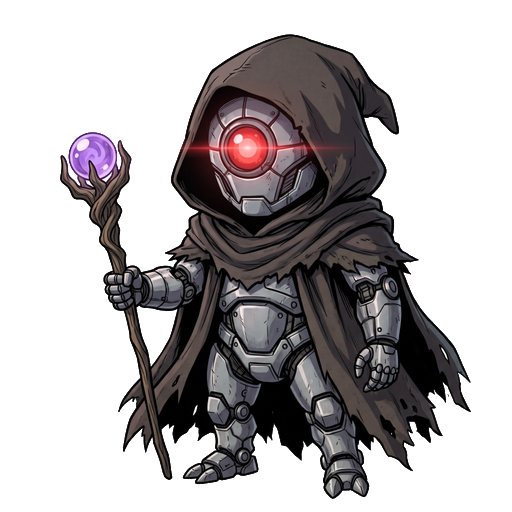
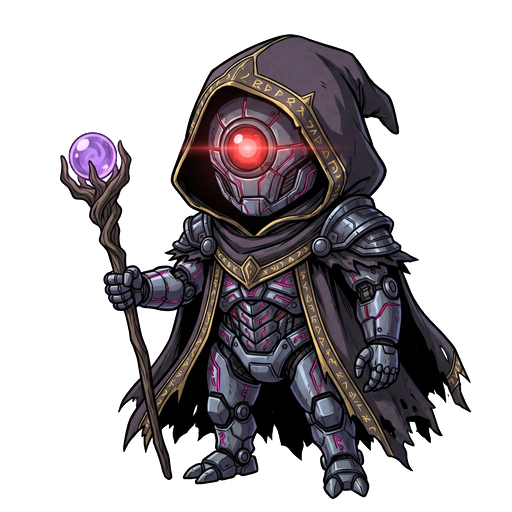
feat(sprites): integrate baby mage idle upgrade and archmage/baby mage hit poses

Changed region(s): [[0.1875, 0.0625, 0.7812, 0.9688], [0.875, 0.6875, 0.9062, 0.7812]]

diff --git a/VSCode/test/robot_mage_assets_and_arena_test.dart b/VSCode/test/robot_mage_assets_and_arena_test.dart
@@ -119,9 +119,11 @@ void main() {
         'assets/images/enemies/guardian_robot_attack.png',
         'assets/images/enemies/guardian_robot_hit.png',
         'assets/images/enemies/robot_archmage_idle.png',
+        'assets/images/enemies/robot_archmage_hit.png',
         'assets/images/enemies/metal_wizard_idle.png',
         'assets/images/enemies/temple_master_idle.png',
         'assets/images/enemies/baby_robot_mage_idle.png',
+        'assets/images/enemies/baby_robot_mage_hit.png',
       ];
 
       for (final path in expectedSprites) {
@@ -308,7 +310,7 @@ void main() {
       final localization = LocalizationService();
       await localization.load();
 
-      // Stage 2: Robot Archmage
+      // Stage 2: Robot Archmage (idle during PC win / launch, swaps to robot_archmage_hit.png at impact, then reverts)
       await tester.pumpWidget(
         MaterialApp(
           theme: ThemeData.dark(),
@@ -330,11 +332,49 @@ void main() {
         ),
       );
       await tester.pump(const Duration(milliseconds: 150));
-      expect(
-        find.byKey(const ValueKey('assets/images/enemies/robot_archmage_idle.png')),
-        findsOneWidget,
+      final archmageIdleFinder = find.byKey(
+        const ValueKey('assets/images/enemies/robot_archmage_idle.png'),
       );
+      expect(archmageIdleFinder, findsOneWidget);
+      expect(tester.widget<Image>(archmageIdleFinder).gaplessPlayback, isTrue);
       expect(find.text('ROBOT ARCHMAGE'), findsOneWidget);
+
+      await tester.pump(const Duration(milliseconds: 700)); // finish round 1
+
+      // Stage 2 impact damage -> idle during launch/clash, swaps to robot_archmage_hit.png at 550ms impact
+      await tester.pumpWidget(
+        MaterialApp(
+          theme: ThemeData.dark(),
+          home: Scaffold(
+            body: SizedBox(
+              width: 400,
+              child: VersusArena(
+                userMove: HandMove.rock,
+                computerMove: HandMove.scissors,
+                winner: RoundWinner.user,
+                localization: localization,
+                animationsEnabled: true,
+                roundId: 2,
+                elementalMode: true,
+                enemyStage: 2,
+              ),
+            ),
+          ),
+        ),
+      );
+      await tester.pump();
+      await tester.pump(const Duration(milliseconds: 200));
+      expect(archmageIdleFinder, findsOneWidget);
+
+      await tester.pump(const Duration(milliseconds: 360)); // 560ms total -> impact fired!
+      final archmageHitFinder = find.byKey(
+        const ValueKey('assets/images/enemies/robot_archmage_hit.png'),
+      );
+      expect(archmageHitFinder, findsOneWidget);
+      expect(tester.widget<Image>(archmageHitFinder).gaplessPlayback, isTrue);
+
+      await tester.pump(const Duration(milliseconds: 460)); // reverts to idle
+      expect(archmageIdleFinder, findsOneWidget);
       expect(tester.takeException(), isNull);
 
       // Stage 3: Metal Wizard
@@ -350,7 +390,7 @@ void main() {
                 winner: RoundWinner.draw,
                 localization: localization,
                 animationsEnabled: true,
-                roundId: 2,
+                roundId: 3,
                 elementalMode: true,
                 enemyStage: 3,
               ),
@@ -365,7 +405,9 @@ void main() {
       );
       expect(find.text('METAL WIZARD'), findsOneWidget);
 
-      // Stage 4: Baby Mage Robot
+      await tester.pump(const Duration(milliseconds: 700)); // finish round 3
+
+      // Stage 4: Baby Mage Robot (idle during launch/clash, swaps to baby_robot_mage_hit.png at 550ms impact, then reverts)
       await tester.pumpWidget(
         MaterialApp(
           theme: ThemeData.dark(),
@@ -378,7 +420,7 @@ void main() {
                 winner: RoundWinner.user,
                 localization: localization,
                 animationsEnabled: true,
-                roundId: 3,
+                roundId: 4,
                 elementalMode: true,
                 enemyStage: 4,
               ),
@@ -386,12 +428,24 @@ void main() {
           ),
         ),
       );
-      await tester.pump(const Duration(milliseconds: 650));
-      expect(
-        find.byKey(const ValueKey('assets/images/enemies/baby_robot_mage_idle.png')),
-        findsOneWidget,
+      await tester.pump();
+      await tester.pump(const Duration(milliseconds: 200));
+      final babyIdleFinder = find.byKey(
+        const ValueKey('assets/images/enemies/baby_robot_mage_idle.png'),
       );
+      expect(babyIdleFinder, findsOneWidget);
+      expect(tester.widget<Image>(babyIdleFinder).gaplessPlayback, isTrue);
+
+      await tester.pump(const Duration(milliseconds: 450)); // 650ms total -> inside impact hit window
+      final babyHitFinder = find.byKey(
+        const ValueKey('assets/images/enemies/baby_robot_mage_hit.png'),
+      );
+      expect(babyHitFinder, findsOneWidget);
+      expect(tester.widget<Image>(babyHitFinder).gaplessPlayback, isTrue);
       expect(find.text('BABY MAGE ROBOT'), findsOneWidget);
+
+      await tester.pump(const Duration(milliseconds: 460)); // reverts to idle
+      expect(babyIdleFinder, findsOneWidget);
       expect(tester.takeException(), isNull);
     });
   });

diff --git a/VSCode/lib/views/widgets/versus_arena.dart b/VSCode/lib/views/widgets/versus_arena.dart
@@ -1,3 +1,4 @@
+import 'dart:async';
 import 'dart:math' as math;
 import 'dart:ui' as ui;
 import 'package:flutter/material.dart';
@@ -122,6 +123,53 @@ class _VersusArenaState extends State<VersusArena>
   int? _pendingPcHp;
   bool _activeUserDamage = false;
   bool _activePcDamage = false;
+  int? _precachedBossStage;
+
+  static List<String> _actionSpritesForStage(int enemyStage) {
+    switch (enemyStage) {
+      case 2:
+        return const [
+          'assets/images/enemies/robot_archmage_idle.png',
+          'assets/images/enemies/robot_archmage_hit.png',
+        ];
+      case 4:
+        return const [
+          'assets/images/enemies/baby_robot_mage_idle.png',
+          'assets/images/enemies/baby_robot_mage_hit.png',
+        ];
+      case 3:
+        return const [
+          'assets/images/enemies/metal_wizard_idle.png',
+        ];
+      case 5:
+        return const [
+          'assets/images/enemies/temple_master_idle.png',
+        ];
+      default:
+        return const [
+          'assets/images/enemies/guardian_robot_idle.png',
+          'assets/images/enemies/guardian_robot_attack.png',
+          'assets/images/enemies/guardian_robot_hit.png',
+        ];
+    }
+  }
+
+  void _precacheBossSprites(int stage) {
+    for (final assetPath in _actionSpritesForStage(stage)) {
+      unawaited(
+        precacheImage(AssetImage(assetPath), context).catchError((_) {}),
+      );
+    }
+  }
+
+  @override
+  void didChangeDependencies() {
+    super.didChangeDependencies();
+    if (_precachedBossStage != widget.enemyStage) {
+      _precachedBossStage = widget.enemyStage;
+      _precacheBossSprites(widget.enemyStage);
+    }
+  }
 
   bool get _roundDealsPcDamage =>
       widget.dualSpellResult != null
@@ -409,6 +457,8 @@ class _VersusArenaState extends State<VersusArena>
     }
     if (widget.enemyStage != oldWidget.enemyStage) {
       _resetBossAction();
+      _precachedBossStage = widget.enemyStage;
+      _precacheBossSprites(widget.enemyStage);
     }
 
     final bool isMatchReset = widget.roundId == 0 ||
@@ -1530,11 +1580,15 @@ class _BossArenaSprite extends StatelessWidget {
   String? _resolveSpriteAsset() {
     switch (enemyStage) {
       case 2:
-        return 'assets/images/enemies/robot_archmage_idle.png';
+        return actionType == _BossActionType.hit
+            ? 'assets/images/enemies/robot_archmage_hit.png'
+            : 'assets/images/enemies/robot_archmage_idle.png';
       case 3:
         return 'assets/images/enemies/metal_wizard_idle.png';
       case 4:
-        return 'assets/images/enemies/baby_robot_mage_idle.png';
+        return actionType == _BossActionType.hit
+            ? 'assets/images/enemies/baby_robot_mage_hit.png'
+            : 'assets/images/enemies/baby_robot_mage_idle.png';
       case 5:
         return 'assets/images/enemies/temple_master_idle.png';
       default:
